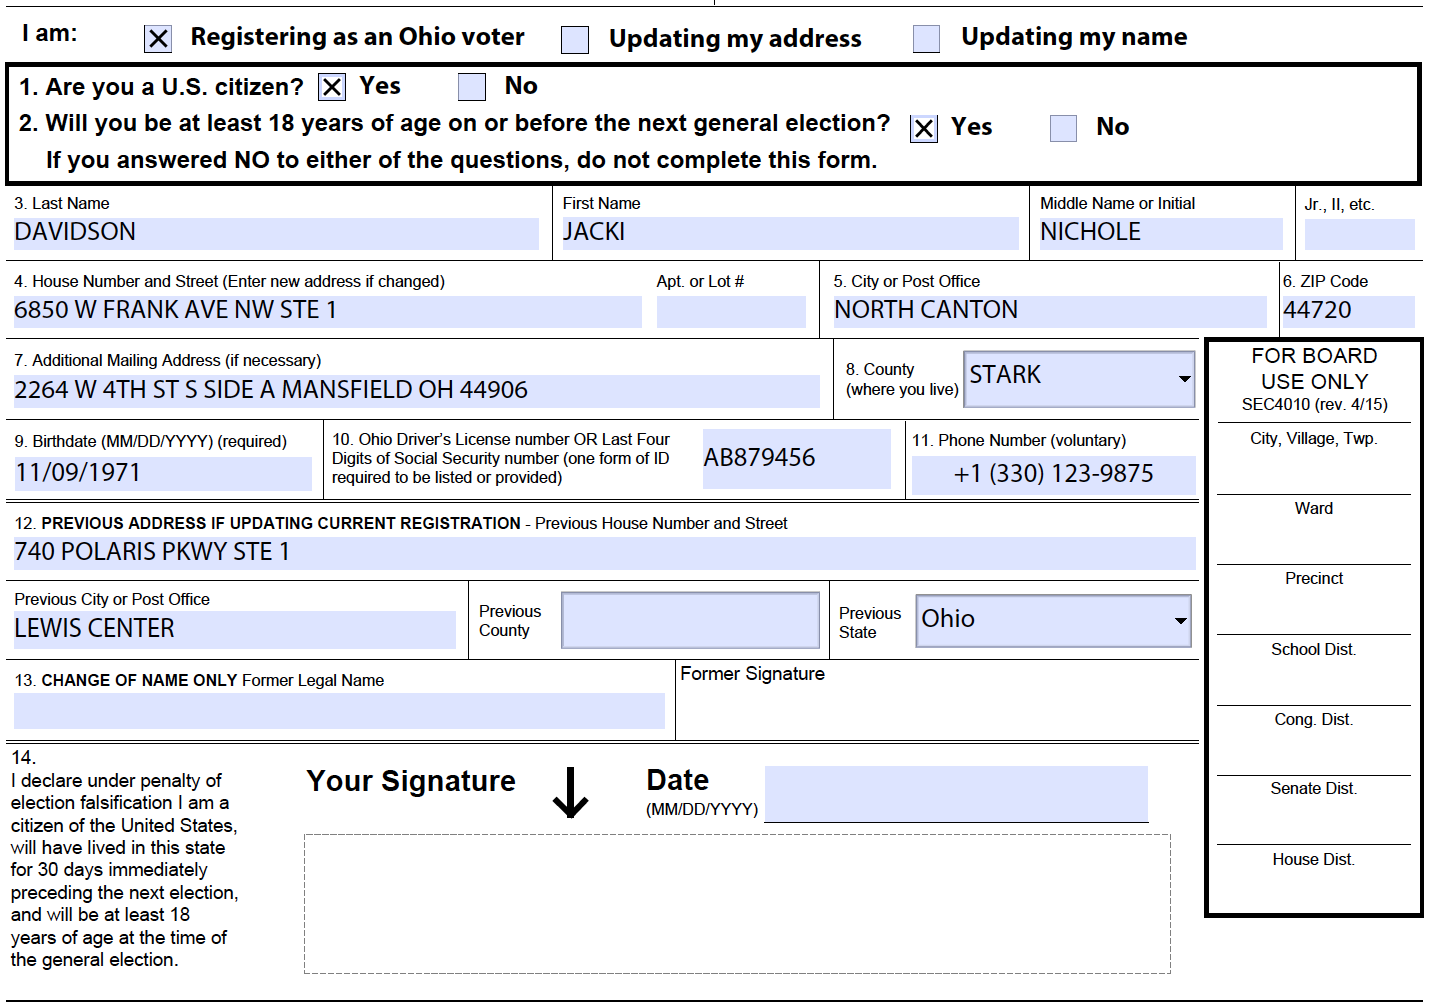
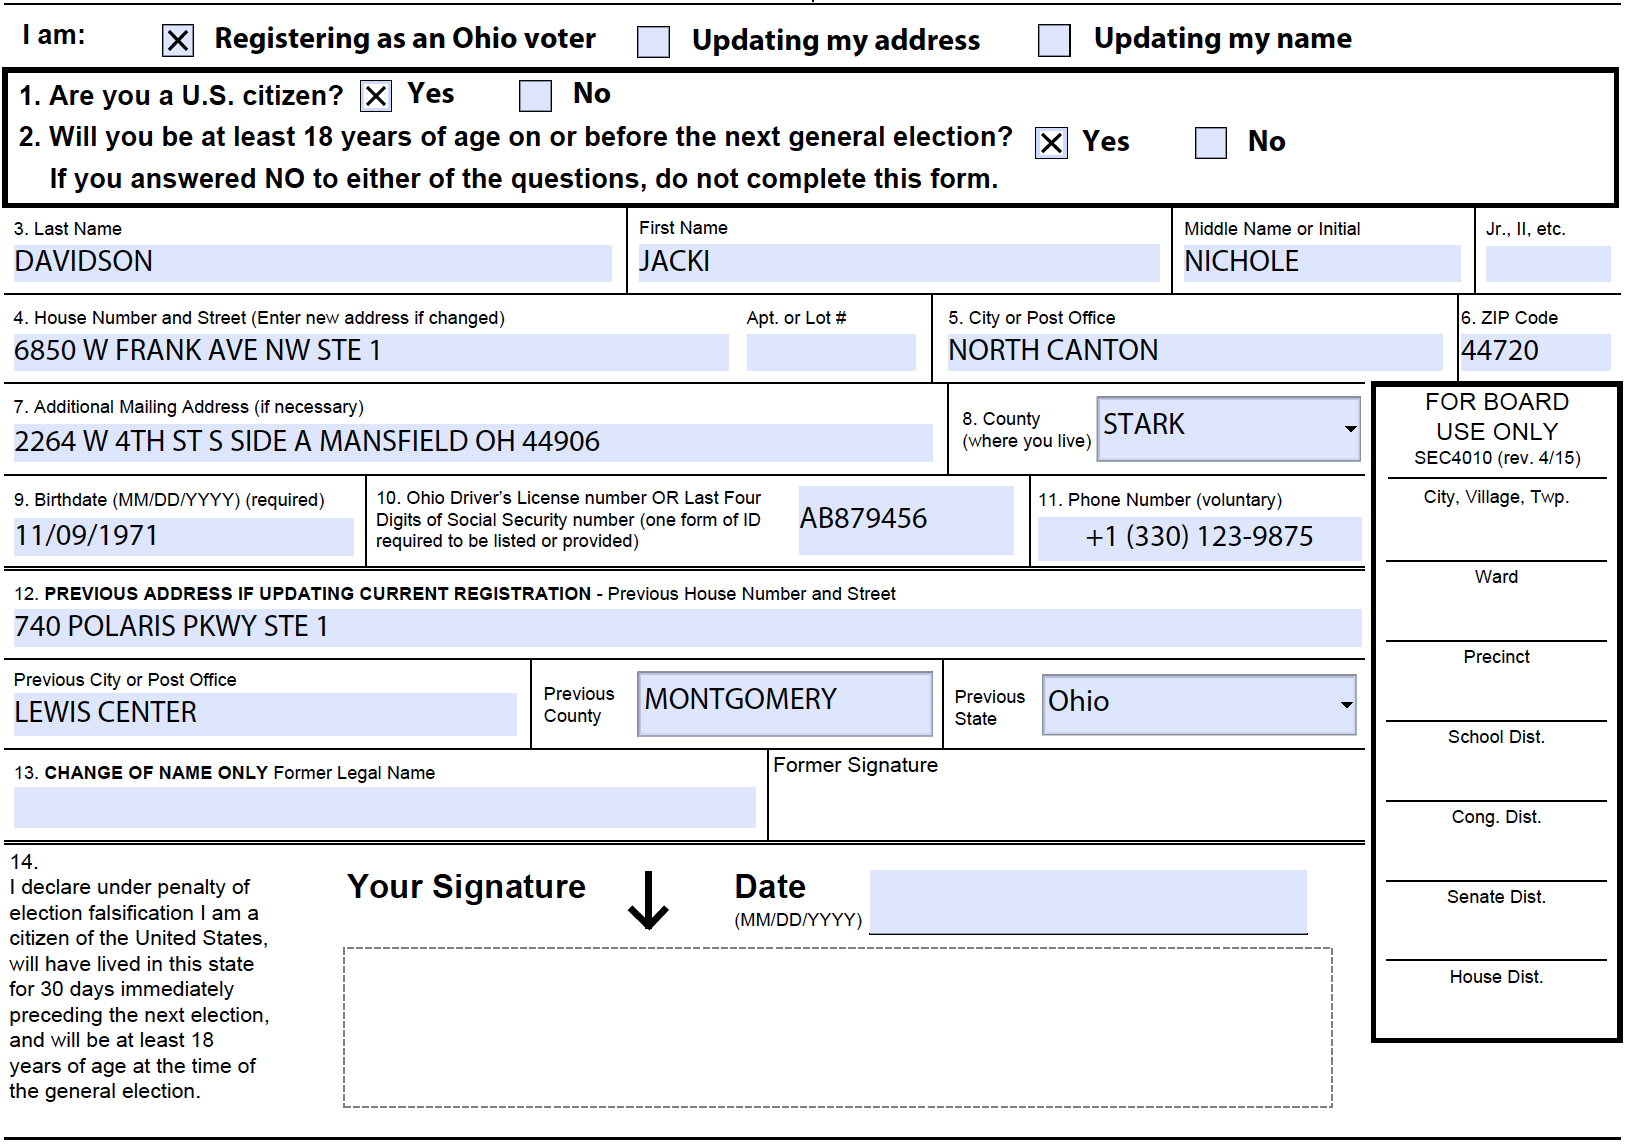
new version

diff --git a/index.md b/index.md
@@ -1964,139 +1964,143 @@ An example of the XML statements for the voter registration request transaction 
 
 *need to use a NIST permanent URL for schemaLocation and validate*
 
-    <?xml version="1.0" encoding="utf-8"?>
+    <?xml version="1.0" encoding="UTF-8"?>
     <!-- DISCLAIMER: All persons listed below are fictitious -->
-    <VoterRecordsRequest xmlns:xsd="http://www.w3.org/2001/XMLSchema" xmlns:xsi="http://www.w3.org/2001/XMLSchema-instance"   xmlns="NIST_V0_voter_records_interchange.xsd" xsi:schemaLocation="NIST_V0_voter_records_interchange.xsd NIST_V0_voter_records_interchange_V23.xsd"
-    xmlns:addr="http://www.fgdc.gov/schemas/address/addr" xmlns:addr_type="http://www.fgdc.gov/schemas/address/addr_type">
-    	<GeneratedDate>2017-02-10</GeneratedDate>
-    	<Issuer>Ohio Secretary of State</Issuer>
-    	<TransactionId>2a642eb5-169e-4a3b-8899-adc7ea6d00d0</TransactionId>
-    	<Type>registration</Type>
-    	<VendorApplicationId>OLVR 2.0</VendorApplicationId>
-    	<VoterRegistration>
-    		<AdditionalInfo>
-    			<Name>Language</Name>
-    			<StringValue>en_US</StringValue>
-    		</AdditionalInfo>
-    		<ContactMethod>
-    			<Type>phone</Type>
-    			<Value>3301239875</Value>
-    		</ContactMethod>
-    		<ContactMethod>
-    			<Type>email</Type>
-    			<Value>FAKEEMAIL@AOL.COM</Value>
-    		</ContactMethod>
-    		<DateOfBirth>1971-11-09</DateOfBirth>
-    		<MailingAddress>
-    			<NumberedThoroughfareAddress_type>
-    				<addr:CompleteAddressNumber>
-    					<AddressNumber>2264</AddressNumber>
-    				</addr:CompleteAddressNumber>
-    				<addr:CompleteStreetName>
-    					<StreetNamePreDirectional>W</StreetNamePreDirectional>
-    					<StreetName>4TH</StreetName>
-    					<StreetNamePostType>ST</StreetNamePostType>
-    					<StreetNamePostDirectional>S</StreetNamePostDirectional>
-    				</addr:CompleteStreetName>
-    				<addr:CompleteSubaddress>
-    					<SubaddressElement>
-    						<SubaddressType>SIDE</SubaddressType>
-    						<SubaddressIdentifier>A</SubaddressIdentifier>
-    					</SubaddressElement>
-    				</addr:CompleteSubaddress>
-    				<CompletePlaceName>
-    					<PlaceName PlaceNameType="MunicipalJurisdiction">MANSFIELD</PlaceName>
-    					<PlaceName PlaceNameType="County"/>
-    				</CompletePlaceName>
-    				<StateName>OH</StateName>
-    				<ZipCode>44906</ZipCode>
-    			</NumberedThoroughfareAddress_type>
-    		</MailingAddress>
-    		<Name>
-    			<FirstName>JACKI</FirstName>
-    			<LastName>DAVIDSON</LastName>
-    			<MiddleName>NICHOLE</MiddleName>
-    		</Name>
-    		<PreviousRegistrationAddress>
-    			<NumberedThoroughfareAddress_type>
-    				<addr:CompleteAddressNumber>
-    					<addr_type:AddressNumber>740</AddressNumber>
-    				</addr:CompleteAddressNumber>
-    				<addr:CompleteStreetName>
-    					<addr_type:StreetNamePreDirectional/>
-    					<addr_type:StreetName>POLARIS</StreetName>
-    					<addr_type:StreetNamePostType>PKWY</StreetNamePostType>
-    					<addr_type:StreetNamePostDirectional/>
-    				</addr:CompleteStreetName>
-    				<addr:CompleteSubaddress>
-    					<addr_type:SubaddressElement>
-    						<SubaddressType>STE</SubaddressType>
-    						<SubaddressIdentifier>1</SubaddressIdentifier>
-    					</SubaddressElement>
-    				</addr:CompleteSubaddress>
-    				<addr_type:CompletePlaceName>
-    					<PlaceName PlaceNameType="MunicipalJurisdiction">LEWIS CENTER</PlaceName>
-    					<PlaceName PlaceNameType="County"/>
-    				</addr_type:CompletePlaceName>
-    				<addr_type:StateName>OH</StateName>
-    				<addr_type:ZipCode>43035</ZipCode>
-    			</NumberedThoroughfareAddress_type>
-    		</PreviousRegistrationAddress>
-    		<RegistrationAddress>
-    			<NumberedThoroughfareAddress_type>
-    				<addr:CompleteAddressNumber>
-    					<addr_type:AddressNumber>6850</AddressNumber>
-    				</addr:CompleteAddressNumber>
-    				<addr:CompleteStreetName>
-    					<addr_type:StreetNamePreDirectional>W</StreetNamePreDirectional>
-    					<addr_type:StreetName>FRANK</StreetName>
-    					<addr_type:StreetNamePostType>AVE</StreetNamePostType>
-    					<addr_type:StreetNamePostDirectional>NW</StreetNamePostDirectional>
-    				</addr:CompleteStreetName>
-    				<addr:CompleteSubaddress>
-    					<addr_type:SubaddressElement>
-    						<SubaddressType>STE</SubaddressType>
-    						<SubaddressIdentifier>1</SubaddressIdentifier>
-    					</SubaddressElement>
-    				</addr:CompleteSubaddress>
-    				<addr_type:CompletePlaceName>
-    					<PlaceName PlaceNameType="MunicipalJurisdiction">NORTH CANTON</PlaceName>
-    					<PlaceName PlaceNameType="County">STARK </PlaceName>
-    				</CompletePlaceName>
-    				<addr_type:StateName>OH</StateName>
-    				<addr_type:ZipCode>44720</ZipCode>
-    			</NumberedThoroughfareAddress_type>
-    		</RegistrationAddress>
-        <RegistrationForm>nvra</RegistrationForm>
-    		<RegistrationMethod>voter-via-mail</RegistrationMethod>
-    		<VoterClassification>
-    			<Assertion>yes</Assertion>
-    			<Type>eighteen-on-election-day</Type>
-    		</VoterClassification>
-    		<VoterClassification>
-    			<Assertion>yes</Assertion>
-    			<Type>united-states-citizen</Type>
-    		</VoterClassification>
-    		<VoterClassification>
-    			<Assertion>yes</Assertion>
-    			<OtherType>ohio-resident</OtherType>
-    			<Type>other</Type>
-    		</VoterClassification>
-    		<VoterClassification>
-    			<Assertion>yes</Assertion>
-    			<OtherType>bmv-authorization</OtherType>
-    			<Type>other</Type>
-    		</VoterClassification>
-    		<VoterId>
-    			<AttestNoSuchId>false</AttestNoSuchId>
-    			<StringValue>AB879456</StringValue>
-    			<Type>drivers-license</Type>
-    		</VoterId>
-    		<VoterId>
-    			<AttestNoSuchId>true</AttestNoSuchId>
-    			<Type>ssn4</Type>
-    		</VoterId>
-    	</VoterRegistration>
+    <VoterRecordsRequest xmlns:xsd="http://www.w3.org/2001/XMLSchema"
+        xmlns:xsi="http://www.w3.org/2001/XMLSchema-instance"
+        xmlns="NIST_V0_voter_records_interchange.xsd"
+        xsi:schemaLocation="NIST_V0_voter_records_interchange.xsd NIST_V0_voter_records_interchange.xsd"
+        xmlns:addr="http://www.fgdc.gov/schemas/address/addr"
+        xmlns:addr_type="http://www.fgdc.gov/schemas/address/addr_type">
+        <GeneratedDate>2017-02-10</GeneratedDate>
+        <Issuer>Ohio Secretary of State</Issuer>
+        <TransactionId>2a642eb5-169e-4a3b-8899-adc7ea6d00d0</TransactionId>
+        <Type>registration</Type>
+        <VendorApplicationId>OLVR 2.0</VendorApplicationId>
+        <VoterRegistration>
+            <AdditionalInfo>
+                <Name>Language</Name>
+                <StringValue>en_US</StringValue>
+            </AdditionalInfo>
+            <ContactMethod>
+                <Type>phone</Type>
+                <Value>3301239875</Value>
+            </ContactMethod>
+            <ContactMethod>
+                <Type>email</Type>
+                <Value>FAKEEMAIL@AOL.COM</Value>
+            </ContactMethod>
+            <DateOfBirth>1971-11-09</DateOfBirth>
+            <MailingAddress>
+                <NumberedThoroughfareAddress_type>
+                    <addr:CompleteAddressNumber>
+                        <addr_type:AddressNumber>2264</addr_type:AddressNumber>
+                    </addr:CompleteAddressNumber>
+                    <addr:CompleteStreetName>
+                        <addr_type:StreetNamePreDirectional>W</addr_type:StreetNamePreDirectional>
+                        <addr_type:StreetName>4TH</addr_type:StreetName>
+                        <addr_type:StreetNamePostType>ST</addr_type:StreetNamePostType>
+                        <addr_type:StreetNamePostDirectional>S</addr_type:StreetNamePostDirectional>
+                    </addr:CompleteStreetName>
+                    <addr:CompleteSubaddress>
+                        <addr_type:SubaddressElement>
+                            <addr_type:SubaddressType>SIDE</addr_type:SubaddressType>
+                            <addr_type:SubaddressIdentifier>A</addr_type:SubaddressIdentifier>
+                        </addr_type:SubaddressElement>
+                    </addr:CompleteSubaddress>
+                    <addr_type:CompletePlaceName>
+                        <addr_type:PlaceName PlaceNameType="MunicipalJurisdiction">MANSFIELD</addr_type:PlaceName>
+                        <addr_type:PlaceName PlaceNameType="County"/>
+                    </addr_type:CompletePlaceName>
+                    <addr_type:StateName>OH</addr_type:StateName>
+                    <addr_type:ZipCode>44906</addr_type:ZipCode>
+                </NumberedThoroughfareAddress_type>
+            </MailingAddress>
+            <Name>
+                <FirstName>JACKI</FirstName>
+                <LastName>DAVIDSON</LastName>
+                <MiddleName>NICHOLE</MiddleName>
+            </Name>
+            <PreviousRegistrationAddress>
+                <NumberedThoroughfareAddress_type>
+                    <addr:CompleteAddressNumber>
+                        <addr_type:AddressNumber>740</addr_type:AddressNumber>
+                    </addr:CompleteAddressNumber>
+                    <addr:CompleteStreetName>
+                        <addr_type:StreetNamePreDirectional/>
+                        <addr_type:StreetName>POLARIS</addr_type:StreetName>
+                        <addr_type:StreetNamePostType>PKWY</addr_type:StreetNamePostType>
+                        <addr_type:StreetNamePostDirectional/>
+                    </addr:CompleteStreetName>
+                    <addr:CompleteSubaddress>
+                        <addr_type:SubaddressElement>
+                            <addr_type:SubaddressType>STE</addr_type:SubaddressType>
+                            <addr_type:SubaddressIdentifier>1</addr_type:SubaddressIdentifier>
+                        </addr_type:SubaddressElement>
+                    </addr:CompleteSubaddress>
+                    <addr_type:CompletePlaceName>
+                        <addr_type:PlaceName PlaceNameType="MunicipalJurisdiction">LEWIS CENTER</addr_type:PlaceName>
+                        <addr_type:PlaceName PlaceNameType="County">MONTGOMERY</addr_type:PlaceName>
+                    </addr_type:CompletePlaceName>
+                    <addr_type:StateName>OH</addr_type:StateName>
+                    <addr_type:ZipCode>43035</addr_type:ZipCode>
+                </NumberedThoroughfareAddress_type>
+            </PreviousRegistrationAddress>
+            <RegistrationAddress>
+                <NumberedThoroughfareAddress_type>
+                    <addr:CompleteAddressNumber>
+                        <addr_type:AddressNumber>6850</addr_type:AddressNumber>
+                    </addr:CompleteAddressNumber>
+                    <addr:CompleteStreetName>
+                        <addr_type:StreetNamePreDirectional>W</addr_type:StreetNamePreDirectional>
+                        <addr_type:StreetName>FRANK</addr_type:StreetName>
+                        <addr_type:StreetNamePostType>AVE</addr_type:StreetNamePostType>
+                        <addr_type:StreetNamePostDirectional>NW</addr_type:StreetNamePostDirectional>
+                    </addr:CompleteStreetName>
+                    <addr:CompleteSubaddress>
+                        <addr_type:SubaddressElement>
+                            <addr_type:SubaddressType>STE</addr_type:SubaddressType>
+                            <addr_type:SubaddressIdentifier>1</addr_type:SubaddressIdentifier>
+                        </addr_type:SubaddressElement>
+                    </addr:CompleteSubaddress>
+                    <addr_type:CompletePlaceName>
+                        <addr_type:PlaceName PlaceNameType="MunicipalJurisdiction">NORTH CANTON</addr_type:PlaceName>
+                        <addr_type:PlaceName PlaceNameType="County">STARK </addr_type:PlaceName>
+                    </addr_type:CompletePlaceName>
+                    <addr_type:StateName>OH</addr_type:StateName>
+                    <addr_type:ZipCode>44720</addr_type:ZipCode>
+                </NumberedThoroughfareAddress_type>
+            </RegistrationAddress>
+            <RegistrationForm>nvra</RegistrationForm>
+            <RegistrationMethod>voter-via-mail</RegistrationMethod>
+            <VoterClassification>
+                <Assertion>yes</Assertion>
+                <Type>eighteen-on-election-day</Type>
+            </VoterClassification>
+            <VoterClassification>
+                <Assertion>yes</Assertion>
+                <Type>united-states-citizen</Type>
+            </VoterClassification>
+            <VoterClassification>
+                <Assertion>yes</Assertion>
+                <OtherType>ohio-resident</OtherType>
+                <Type>other</Type>
+            </VoterClassification>
+            <VoterClassification>
+                <Assertion>yes</Assertion>
+                <OtherType>bmv-authorization</OtherType>
+                <Type>other</Type>
+            </VoterClassification>
+            <VoterId>
+                <AttestNoSuchId>false</AttestNoSuchId>
+                <StringValue>AB879456</StringValue>
+                <Type>drivers-license</Type>
+            </VoterId>
+            <VoterId>
+                <AttestNoSuchId>true</AttestNoSuchId>
+                <Type>ssn4</Type>
+            </VoterId>
+        </VoterRegistration>
     </VoterRecordsRequest>
 
 <br>
